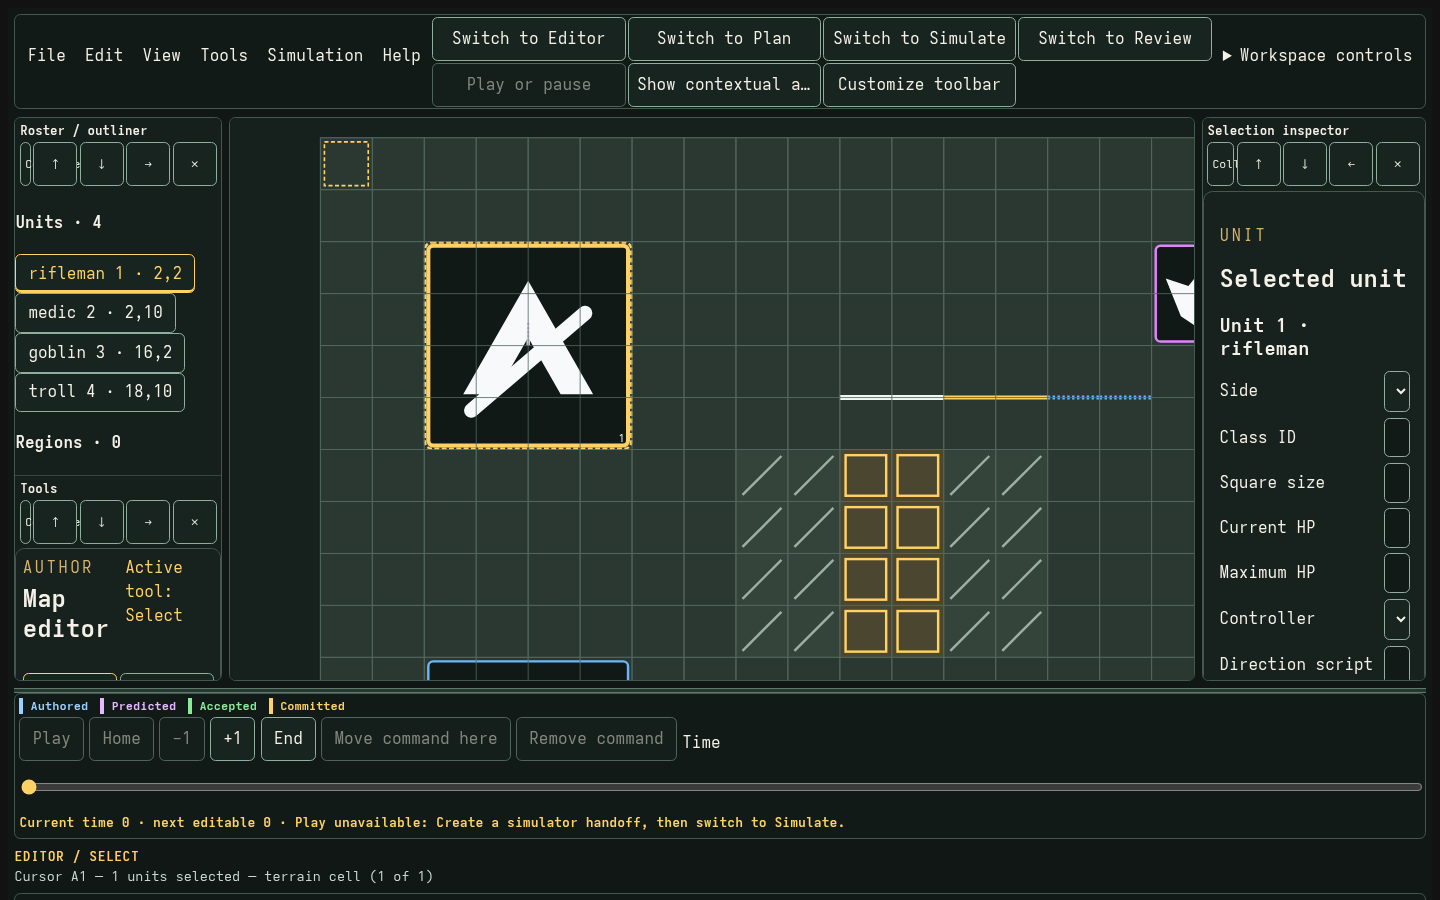
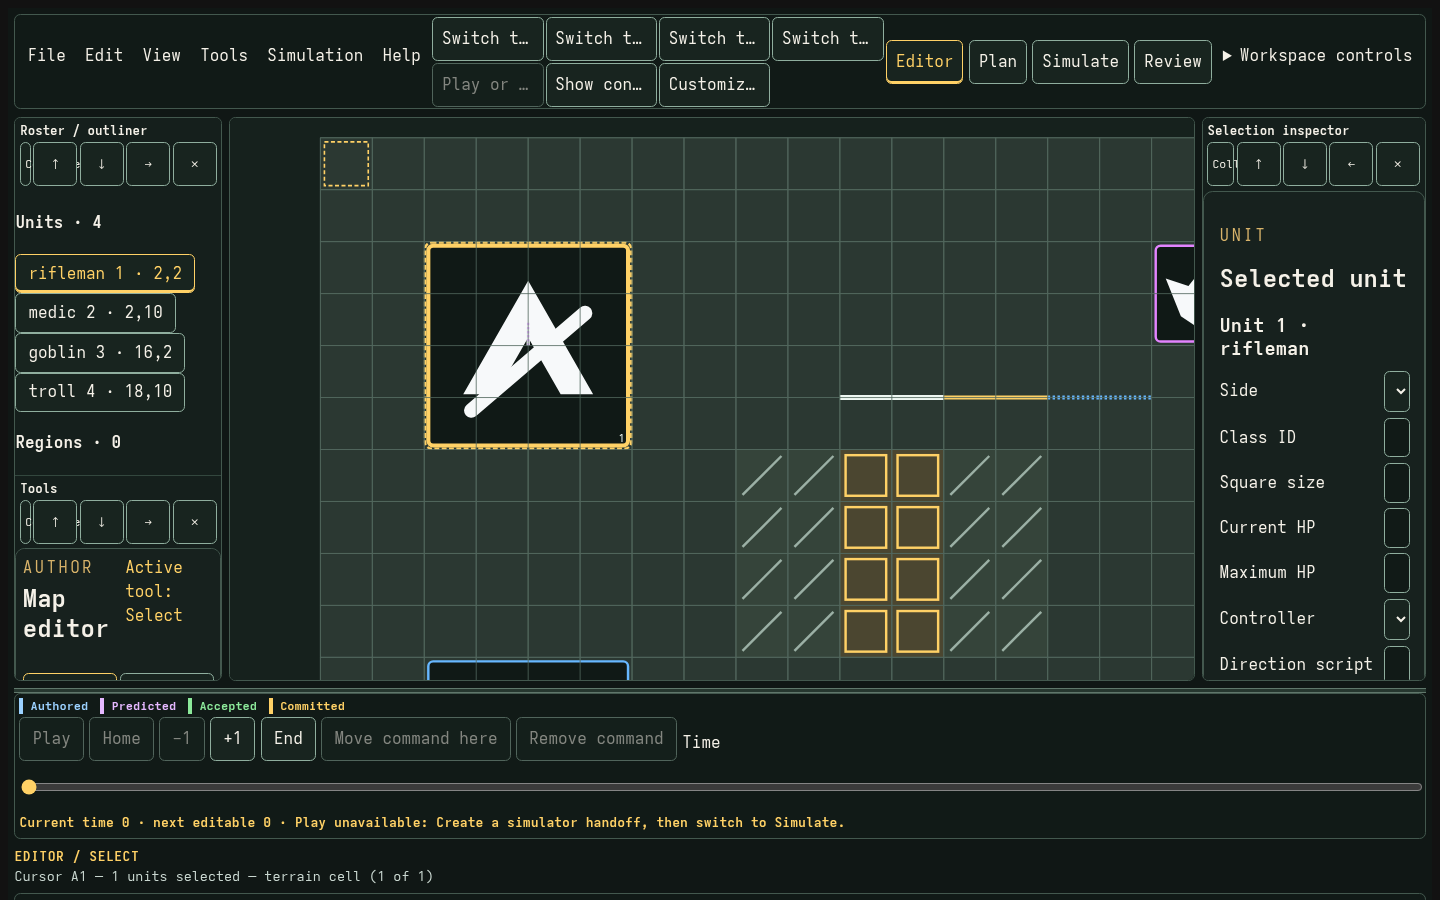
test: bound browser suite admission budget

Changed region(s): [[0.3125, 0.0311, 0.8438, 0.1244], [0.3125, 0.0933, 0.3438, 0.1244]]

diff --git a/tests/SIR.Browser.Tests/playwright.config.js b/tests/SIR.Browser.Tests/playwright.config.js
@@ -8,6 +8,10 @@ assertBrowserAvailable();
 
 export default defineConfig({
   testDir: import.meta.dirname,
+  // The published server hosts one heavy Fable application.  Serial contexts
+  // keep its startup budget deterministic instead of amplifying compilation
+  // and browser initialization across the two available CI CPUs.
+  workers: 1,
   reporter: [[resolve(import.meta.dirname, "deterministic-junit-reporter.js"), {
     // Focused SDD obligations use separately deterministic receipts.  The
     // default remains the complete browser inventory used by CI.
@@ -24,6 +28,10 @@ export default defineConfig({
       ...process.env,
       ASPNETCORE_ENVIRONMENT: "Development",
       SIR_ALLOW_ANONYMOUS_LIVE_SESSIONS: "true",
+      SIR_LIVE_MAX_BOOTSTRAPS_PER_MINUTE: "16",
+      // The serial suite mounts the production application once per isolated
+      // test context. Keep its test-host admission budget above that bounded
+      // inventory without changing the production default of eight/minute.
     },
     cwd: resolve(repoRoot, "artifacts/publish"),
     url: "http://127.0.0.1:5100/",

diff --git a/src/SIR.Client.Web/styles.css b/src/SIR.Client.Web/styles.css
@@ -602,7 +602,7 @@
 #sir-replay-app .desktop-toolbar-customization-row span { min-width: 12rem; }
 @media (max-width: 720px) { #sir-replay-app .tactical-desktop-menu-bar { overflow-x: auto; max-width: 100%; } #sir-replay-app .tactical-desktop-menu > summary { padding-inline: .3rem; } }
 @media (min-width: 721px) {
-  #sir-replay-app .tactical-compact-toolbar { position: relative; display: grid; grid-template-columns: max-content minmax(0, 1fr) max-content; min-width: 0; min-height: 0; padding: .1rem .2rem; gap: .15rem; }
+  #sir-replay-app .tactical-compact-toolbar { position: relative; display: grid; grid-template-columns: max-content minmax(0, 1fr) max-content max-content; min-width: 0; min-height: 0; padding: .1rem .2rem; gap: .15rem; }
   #sir-replay-app .tactical-compact-toolbar > * { min-width: 0; max-width: 100%; }
   #sir-replay-app .tactical-desktop-menu-bar { min-width: 0; }
   #sir-replay-app .desktop-command-toolbar { display: grid; grid-template-columns: repeat(4, minmax(0, 1fr)); min-width: 0; gap: .12rem; }

diff --git a/tests/SIR.Browser.Tests/live-session.spec.js b/tests/SIR.Browser.Tests/live-session.spec.js
@@ -116,7 +116,7 @@ test("tactical command controls expose registry-derived shortcut metadata", asyn
   await expect(play).toHaveAttribute("aria-keyshortcuts", "Space");
   await expect(play).toHaveAttribute("title", /Space/);
 
-  await page.locator("button").filter({ hasText: "Actions" }).click();
+  await page.getByRole("button", { name: "Show contextual actions", exact: true }).click();
   const command = page.locator('[data-tactical-command="workspace.plan"]');
   await expect(command).toHaveAttribute("aria-keyshortcuts", "Control+Shift+2");
   await expect(command.locator("kbd")).toHaveText("Ctrl+Shift+2");
